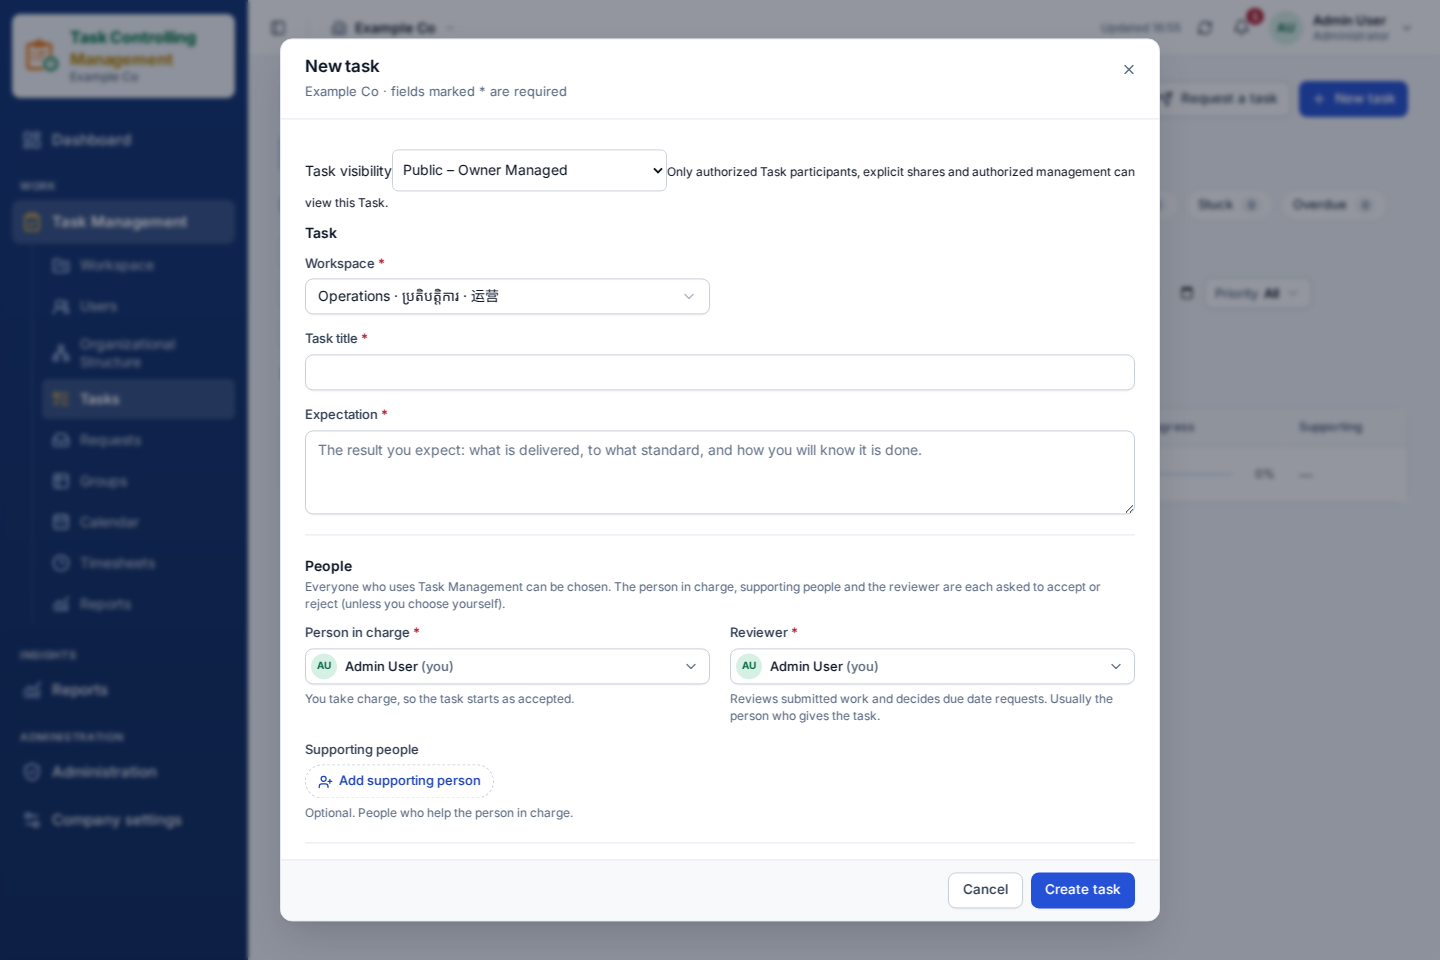
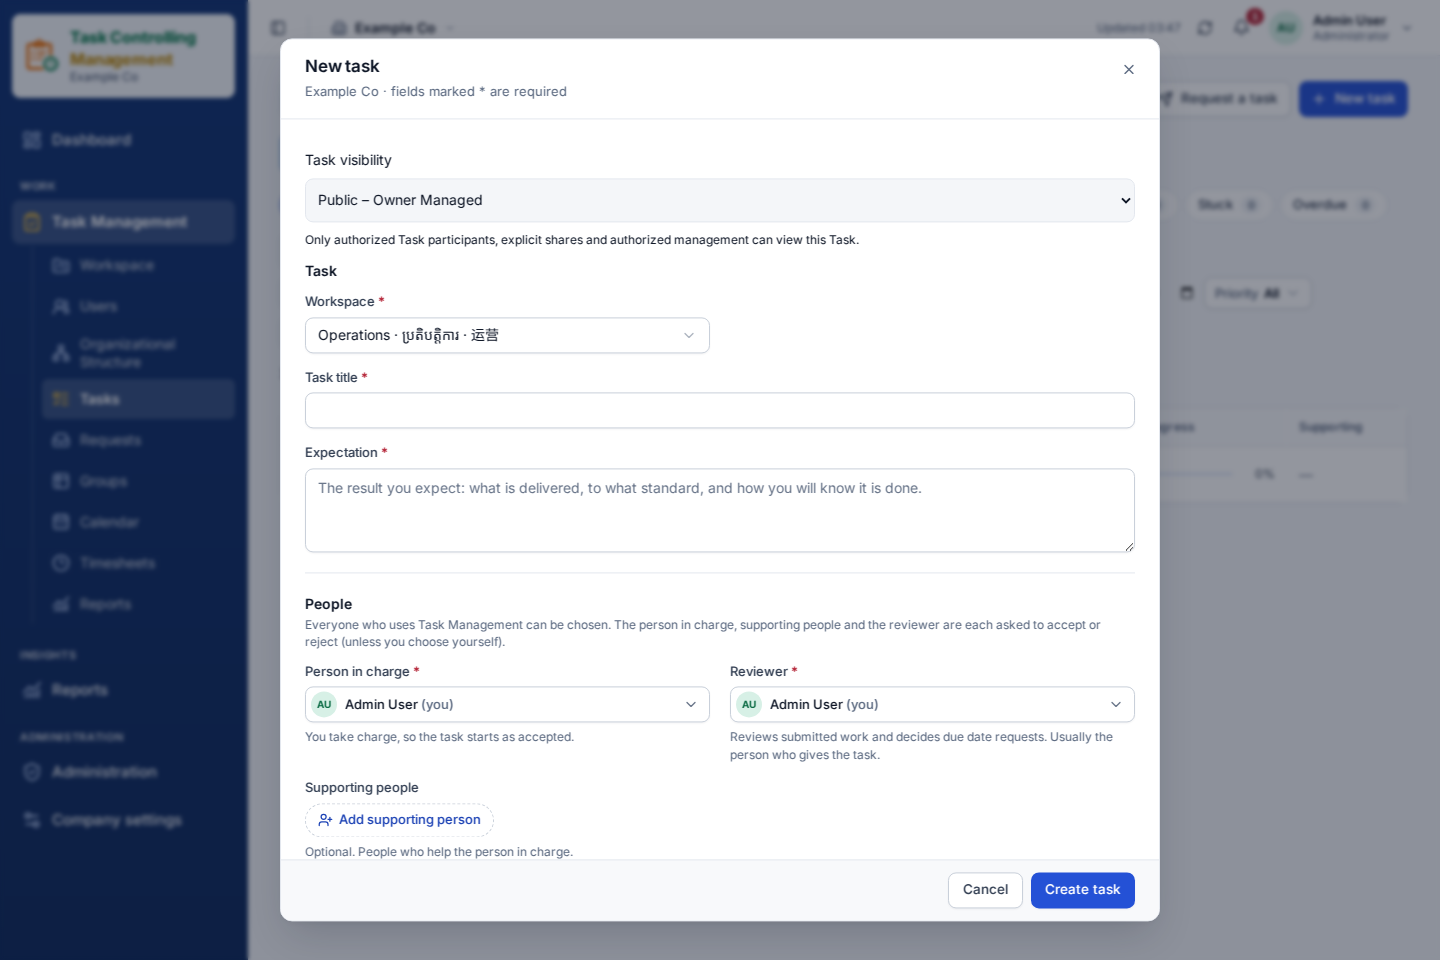
Refresh language screenshots and verify existing-row migrations

diff --git a/backend/tests/test_language_migrations.py b/backend/tests/test_language_migrations.py
@@ -1,0 +1,42 @@
+"""Exercise additive language migrations against existing account/notification rows."""
+import pytest
+from django.db import connection
+from django.db.migrations.executor import MigrationExecutor
+from django.utils import timezone
+
+
+@pytest.mark.django_db(transaction=True)
+def test_language_migrations_preserve_existing_accounts_and_notifications(admin_api):
+    from accounts.models import User
+    from notifications.models import Notification
+    original = User.objects.get(pk=admin_api.user['id'])
+    preserved = {field: getattr(original, field) for field in
+                 ('username', 'email', 'password', 'staff_id', 'role_id', 'active', 'version')}
+    executor = MigrationExecutor(connection)
+    latest = executor.loader.graph.leaf_nodes()
+    before = [node for node in latest if node[0] not in ('accounts', 'notifications')]
+    before += [('accounts', '0002_seed_defaults'),
+               ('notifications', '0004_notification_due_request_notification_meeting_id_and_more')]
+    try:
+        executor.migrate(before)
+        old_apps = executor.loader.project_state(before).apps
+        old_user = old_apps.get_model('accounts', 'User').objects.get(pk=original.pk)
+        assert not hasattr(old_user, 'language')
+        legacy = old_apps.get_model('notifications', 'Notification').objects.create(
+            staff_id=old_user.staff_id, kind='legacy', title='Save · រក្សាទុក · 保存',
+            body='Employee wording must remain literal', created_at=timezone.now())
+        executor = MigrationExecutor(connection)
+        executor.migrate(latest)
+        restored = User.objects.get(pk=original.pk)
+        assert restored.language == 'en'
+        assert {field: getattr(restored, field) for field in preserved} == preserved
+        notice = Notification.objects.get(pk=legacy.pk)
+        assert notice.translation == {}
+        assert notice.title == legacy.title and notice.body == legacy.body
+        restored.language = 'km'
+        restored.save(update_fields=['language'])
+        restored.refresh_from_db()
+        assert restored.language == 'km'
+    finally:
+        # Keep the shared test schema current even if a preservation assertion fails.
+        MigrationExecutor(connection).migrate(latest)

diff --git a/backend/tests/test_language_browser.py b/backend/tests/test_language_browser.py
@@ -78,6 +78,11 @@ def test_web_and_mini_app_language(live_server, browser, connected, settings, lo
     mobile.goto(live_server.url + '/c/default/tg/#tgWebAppData=' + quote(init))
     expect(mobile.locator('html')).to_have_attribute('lang', locale)
     mobile.get_by_role('button', name=text('My profile and settings', locale=locale)).wait_for()
+    if locale == 'km':
+        # Chromium may omit Khmer ICU data: the app must still localize date words.
+        heading = mobile.locator('.hero-text > p.hint').last.inner_text()
+        import re
+        assert not re.search(r'\b(?:Mon|Tue|Wed|Thu|Fri|Sat|Sun|Jan|Feb|Mar|Apr|May|Jun|Jul|Aug|Sep|Oct|Nov|Dec)\b', heading)
     capture(mobile, locale + '-mini-home')
     mobile.get_by_role('button', name=text('My profile and settings', locale=locale)).click()
     mobile.locator('.language-setting select').wait_for()

diff --git a/docs/language-support-handoff.md b/docs/language-support-handoff.md
@@ -130,3 +130,22 @@ broad backend run had **160 passed, 102 subtests passed, 1 legacy parity failure
 Screenshots are being refreshed separately. SQL Server migration verification
 and remaining legacy release-gate reconciliation are still outstanding.
 **Not ready for deployment; do not deploy.**
+
+### Refreshed browser and migration evidence — 24 October 2026
+
+- Three Chromium acceptance scenarios passed (English, Khmer, Simplified Chinese),
+  including synchronized preferences, preserved form drafts, loaded language fonts,
+  no horizontal page overflow and no English weekday/month names in the Khmer
+  Mini App heading. All 15 evidence screenshots were refreshed. Visual inspection
+  confirms Khmer dates and the separated task-visibility field layout.
+- A real migration-executor test passed on SQLite with pre-language rows. Account
+  credentials, identifiers, role, active flag and version were preserved; the new
+  preference defaults to English. Legacy notification text is unchanged and gains
+  empty translation metadata. Saving a Khmer preference after migration persists.
+  This is not SQL Server verification; the Windows instance is unavailable here.
+- After correcting the two stale tests above, `test:release` advances to
+  `v570-test.mjs:72`, where an old Personal-task edit scenario expects an exception.
+  The same failure was reproduced on baseline `2023d9f`. It still needs reconciliation
+  with current two-party approval behavior; application approval rules were not changed.
+- Latest focused language/Telegram run: **24 passed**. Translation coverage remains
+  incomplete (**3,082 pending templates**), so this branch is **not deployment ready**.
